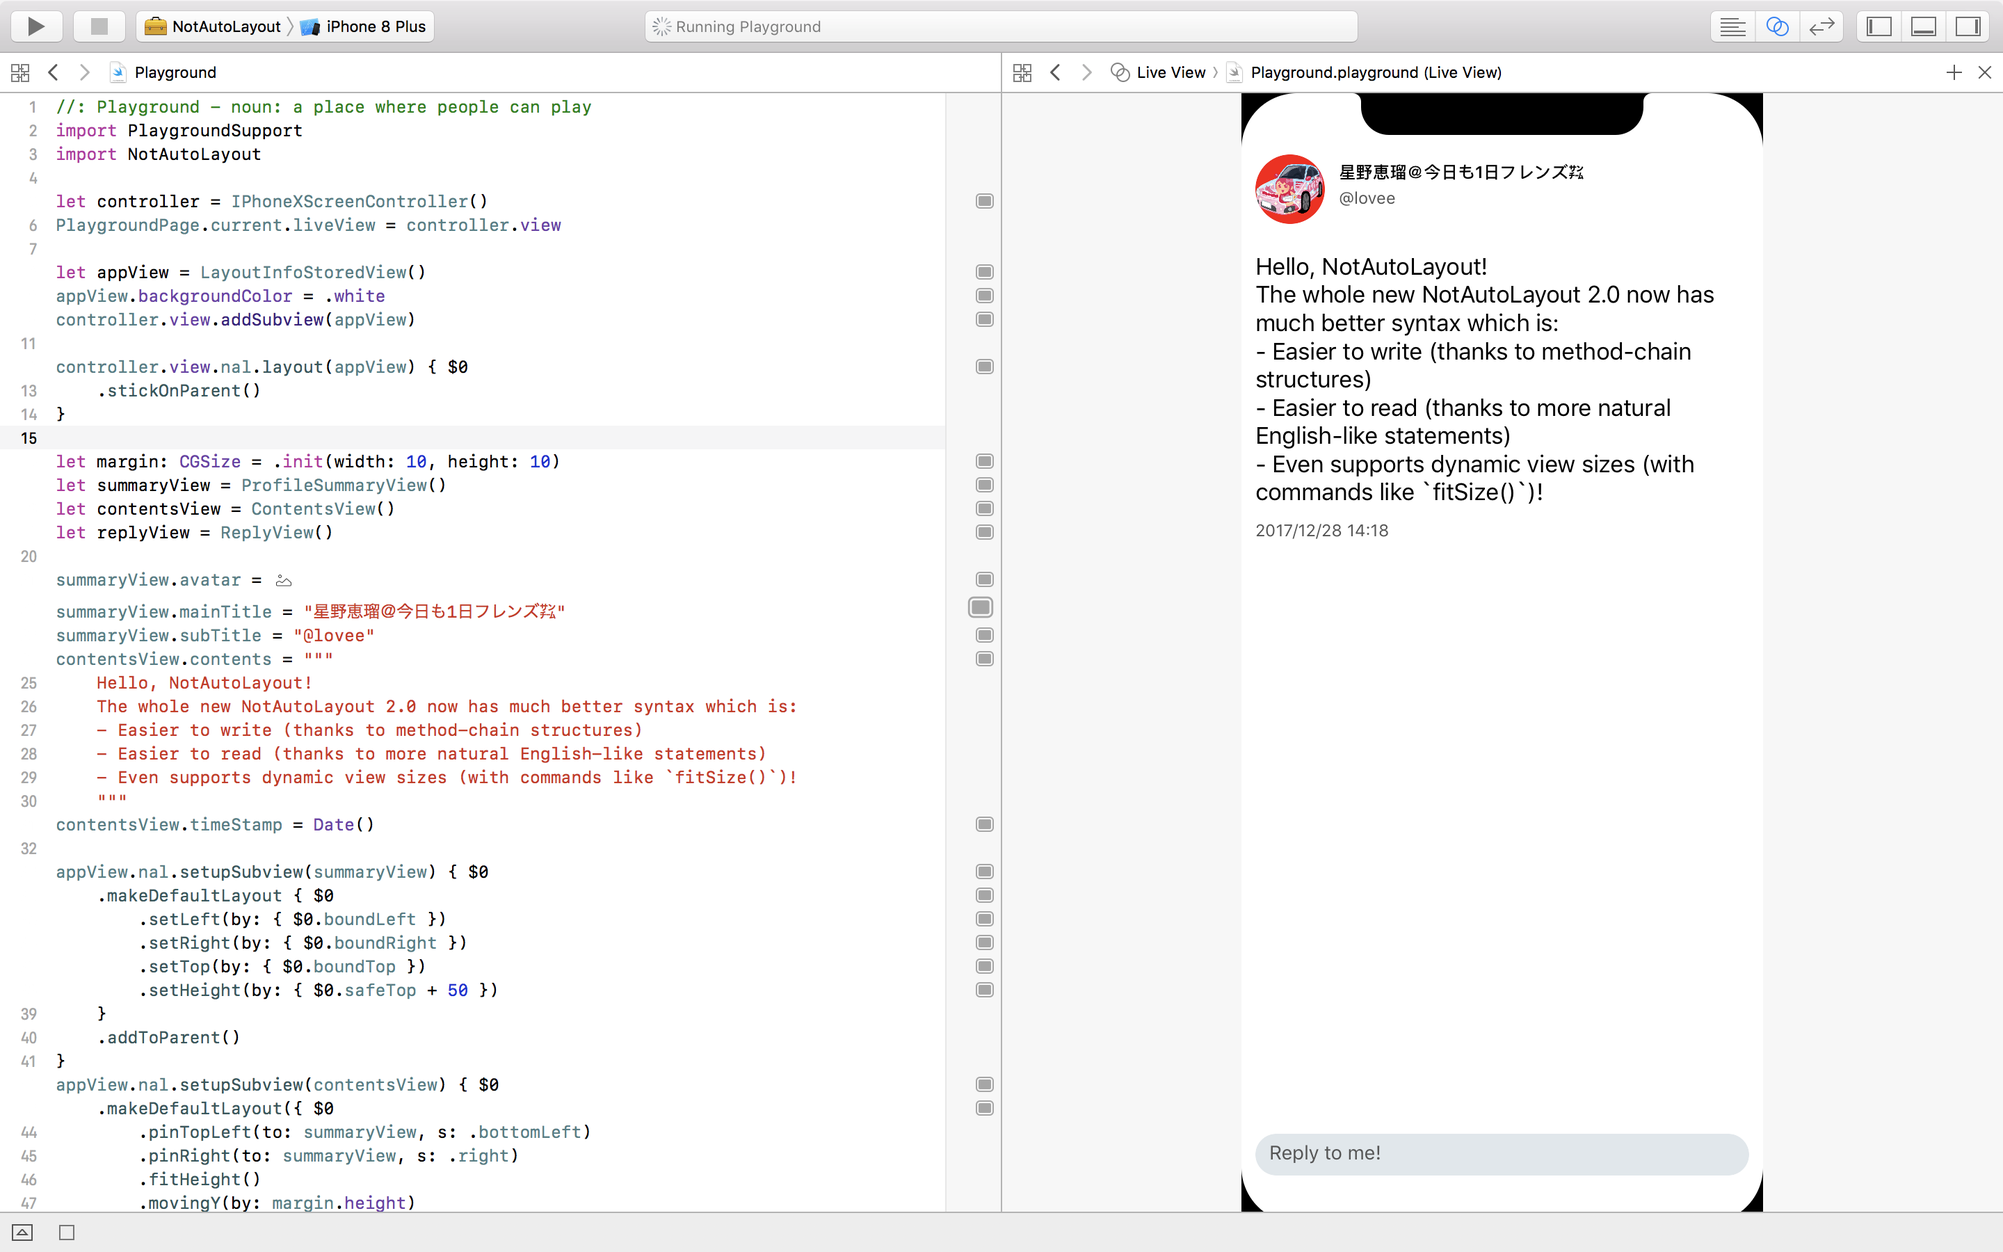
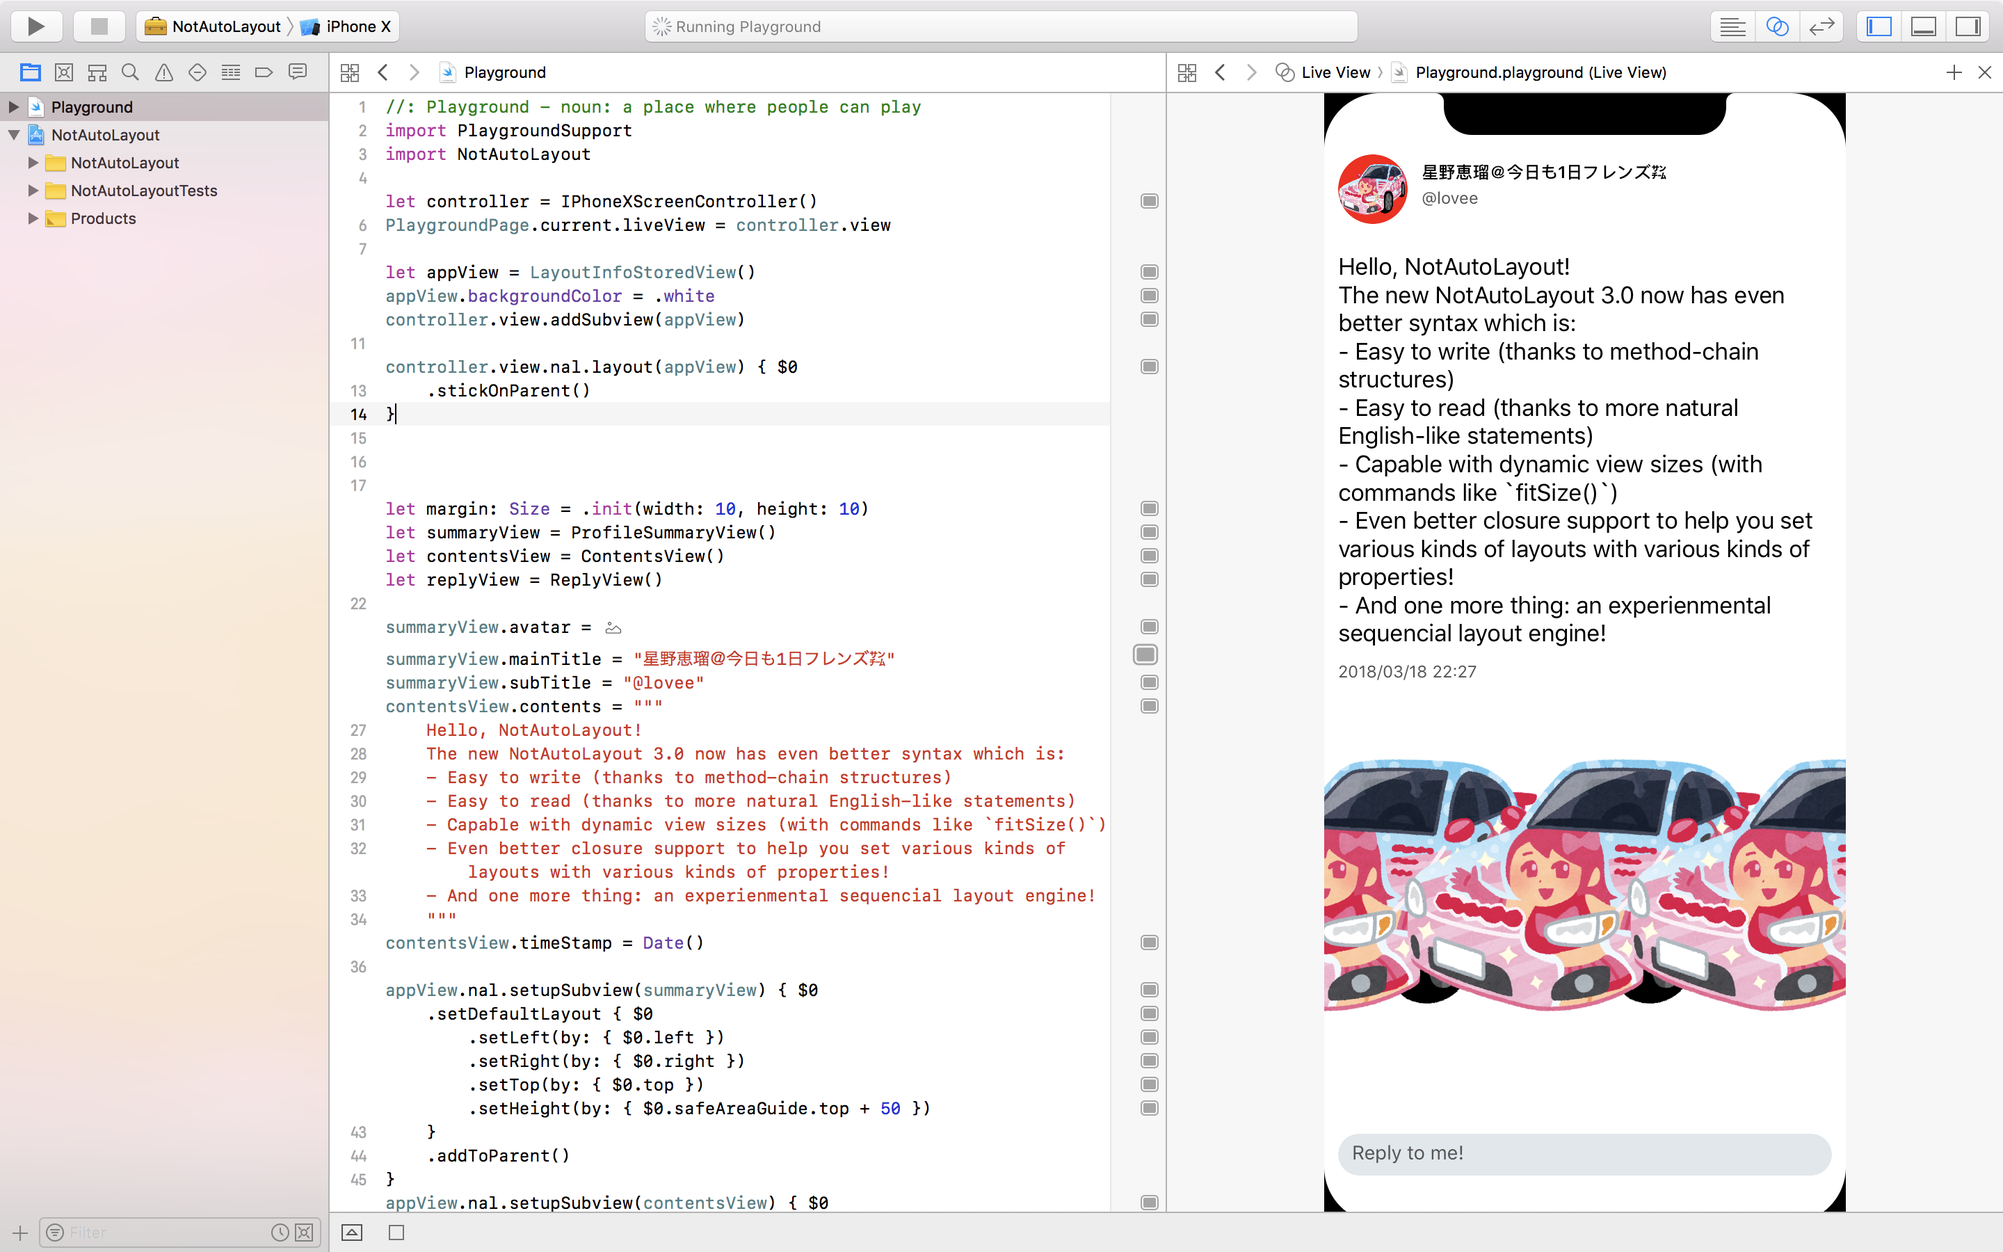
Update README.md

diff --git a/README.md b/README.md
@@ -5,13 +5,13 @@
 [![Build Status](https://www.bitrise.io/app/a650632c681bd908/status.svg?token=wwCZECU6zvtAwAfY2Jw5hQ&branch=master)](https://www.bitrise.io/app/a650632c681bd908)
 [![Carthage compatible](https://img.shields.io/badge/Carthage-compatible-4BC51D.svg?style=flat)](https://github.com/Carthage/Carthage)
 
-NotAutoLayoutView is a framework to help you layout subviews *without* Auto Layout constraints.
+**-The only[^1] layout framework that treats layout human-erros[^2] as a Build-time error-**
+
+NotAutoLayout is a framework to help you layout subviews *without* Auto Layout constraints.
 
 Please note that this framework hasn't been widely tested yet, and currently it's for iOS only.
 
 Please open an issue or send me a pull request if you have any problems, better ideas or any other things you want me to know.
-
-Currently this README.md file doesn't cover the whole project yet, it will be fixed in future releases.
 
 ## Why NotAutoLayout
 
@@ -25,8 +25,8 @@ With NotAutoLayout, you don't need to care about anything like constraints or si
 
 ## Requirements
 
-- iOS 8.0+
-- Xcode 9.0+
+- iOS 9.0+
+- Xcode 9.2+
 - Swift 4.0+
 
 ## Installation
@@ -37,7 +37,7 @@ With NotAutoLayout, you don't need to care about anything like constraints or si
 - Add the following line to your [Cartfile](https://github.com/Carthage/Carthage/blob/master/Documentation/Artifacts.md#cartfile).
 
 ```txt
-github "el-hoshino/NotAutoLayout" ~> 2.0
+github "el-hoshino/NotAutoLayout" ~> 3.0
 ```
 
 - Run `carthage update`.
@@ -56,7 +56,6 @@ github "el-hoshino/NotAutoLayout" ~> 2.0
 I wrote a barely practical sample code Playground file, which may help you get the idea. Here's the main source code, and you can find the full sample code inside the project
 
 ```swift
-import UIKit
 import PlaygroundSupport
 import NotAutoLayout
 
@@ -68,12 +67,12 @@ appView.backgroundColor = .white
 controller.view.addSubview(appView)
 
 controller.view.nal.layout(appView) { $0
-    .stickOnParent()
+	.stickOnParent()
 }
 
 
 
-let margin: CGSize = .init(width: 10, height: 10)
+let margin: Size = .init(width: 10, height: 10)
 let summaryView = ProfileSummaryView()
 let contentsView = ContentsView()
 let replyView = ReplyView()
@@ -82,43 +81,56 @@ summaryView.avatar = #imageLiteral(resourceName: "avatar.png")
 summaryView.mainTitle = "星野恵瑠＠今日も1日フレンズ㌠"
 summaryView.subTitle = "@lovee"
 contentsView.contents = """
-    Hello, NotAutoLayout!
-    The whole new NotAutoLayout 2.0 now has much better syntax which is:
-    - Easier to write (thanks to method-chain structures)
-    - Easier to read (thanks to more natural English-like statements)
-    - Even supports dynamic view sizes (with commands like `fitSize()`)!
-    """
+	Hello, NotAutoLayout!
+	The new NotAutoLayout 3.0 now has even better syntax which is:
+	- Easy to write (thanks to method-chain structures)
+	- Easy to read (thanks to more natural English-like statements)
+	- Capable with dynamic view sizes (with commands like `fitSize()`)
+	- Even better closure support to help you set various kinds of layouts with various kinds of properties!
+	- And one more thing: an experienmental sequencial layout engine!
+	"""
 contentsView.timeStamp = Date()
 
 appView.nal.setupSubview(summaryView) { $0
-    .makeDefaultLayout { $0
-        .setLeft(by: { $0.boundLeft })
-        .setRight(by: { $0.boundRight })
-        .setTop(by: { $0.boundTop })
-        .setHeight(by: { $0.safeTop + 50 })
-    }
-    .addToParent()
+	.setDefaultLayout { $0
+		.setLeft(by: { $0.left })
+		.setRight(by: { $0.right })
+		.setTop(by: { $0.top })
+		.setHeight(by: { $0.safeAreaGuide.top + 50 })
+	}
+	.addToParent()
 }
 appView.nal.setupSubview(contentsView) { $0
-    .makeDefaultLayout({ $0
-        .pinTopLeft(to: summaryView, s: .bottomLeft)
-        .pinRight(to: summaryView, s: .right)
-        .fitHeight()
-        .movingY(by: margin.height)
-    })
-    .setDefaultOrder(to: 1)
-    .addToParent()
+	.setDefaultLayout({ $0
+		.pinTopLeft(to: summaryView, with: { $0.bottomLeft })
+		.pinRight(to: summaryView, with: { $0.right })
+		.fitHeight()
+		.movingY(by: margin.height)
+	})
+	.setDefaultOrder(to: 1)
+	.addToParent()
 }
 appView.nal.setupSubview(replyView) { $0
-    .makeDefaultLayout({ $0
-        .setBottomLeft(by: { $0.boundBottomLeft })
-        .setRight(by: { $0.boundRight })
-        .setTop(by: { $0.safeBottom - 30 })
-    })
-    .addToParent()
+	.setDefaultLayout({ $0
+		.setBottomLeft(by: { $0.bottomLeft })
+		.setRight(by: { $0.right })
+		.setTop(by: { $0.safeAreaGuide.bottom - 30 })
+	})
+	.addToParent()
 }
 
-appView.setNeedsLayout()
+let imageViews = (0 ..< 3).map { (_) -> UIImageView in
+	let image = #imageLiteral(resourceName: "avatar.png")
+	let view = UIImageView(image: image)
+	appView.addSubview(view)
+	return view
+}
+
+appView.nal.layout(imageViews) { $0
+	.setMiddle(by: { $0.vertical(at: 0.7) })
+	.fitSize()
+	.setHorizontalInsetsEqualingToMargin()
+}
 ```
 
 ![screenshot](README_Resource/PlaygroundSample.png)
@@ -140,92 +152,125 @@ To layout a subview in `layoutSubviews()` method, you can use code like this:
 
 ```swift
 class MyView: UIView {
-    let viewA = UIView()
-
-    override func layoutSubviews() {
-        super.layoutSubviews()
-
-        self.nal.layout(self.viewA) { $0
-            .pinTopCenter(to: $0.parentView, s: .topCenter)
-            .setWidth(by: { $0.boundWidth })
-            .fitHeight()
-        }
-
-    }
-
+	
+	let viewA = UIView()
+	let viewB = UIView()
+	
+	override func layoutSubviews() {
+		super.layoutSubviews()
+		
+		self.nal.layout(self.viewA) { $0
+			.setTopCenter(by: { $0.topCenter })
+			.setWidth(by: { $0.width })
+			.fitHeight()
+		}
+		
+		self.nal.layout(self.viewB) { $0
+			.pinTopCenter(to: self.viewA, with: { $0.bottomCenter })
+			.setWidth(by: { $0.width })
+			.fitHeight()
+		}
+		
+	}
+	
 }
 ```
 
-which will layout `viewA` to parent's top center, having the same width as its parent, and fit its height automatically.
+which will first layout `viewA`'s top center to parent's top center (which is `MyView`'s top center), having the same width as its parent (which is `MyView`), and fit its height automatically, then layout `viewB`'s top center to `viewA`'s top bottom, having the same width as its parent (which is `MyView`), and fit its height automatically.
 
-To setup the layout for a subview, which the parent must conform `LayoutInfoStorable` protocol, you can use code like this:
+To setup the layout for a subview, which the parent must conform `LayoutInfoStorable` protocol, you can also use code like this:
 
 ```swift
 class ViewController: UIViewController {
-
-    private(set) lazy var mainView = LayoutInfoStoredView()
-    private(set) lazy var viewA = UIView()
-
-    override func loadView() {
-        self.mainView.frame = UIScreen.main.bounds
-        self.view = self.mainView
-    }
-
-    override func viewDidLoad() {
-        super.viewDidLoad()
-
-        self.mainView.nal.makeLayout(for: self.viewA) { $0
-            .pinTopCenter(to: $0.parentView, s: .topCenter)
-            .setWidth(by: { $0.boundWidth })
-            .fitHeight
-        }
-
-    }
-
+	
+	private(set) lazy var mainView = LayoutInfoStoredView()
+	private(set) lazy var viewA = UIView()
+	private(set) lazy var viewB = UIView()
+	
+	override func loadView() {
+		self.mainView.frame = UIScreen.main.bounds
+		self.view = self.mainView
+	}
+	
+	override func viewDidLoad() {
+		super.viewDidLoad()
+		
+		self.mainView.nal.setLayout(for: self.viewA) { $0
+			.setTopCenter(by: { $0.topCenter })
+			.setWidth(by: { $0.width })
+			.fitHeight()
+		}
+		
+		self.mainView.nal.setupSubview(self.viewB) { $0
+			.setDefaultLayout({ $0
+				.pinTopCenter(to: self.viewA, with: { $0.bottomCenter })
+				.setWidth(by: { $0.width })
+				.fitHeight()
+			})
+			.setDefaultOrder(to: 1)
+		}
+		
+	}
+	
 }
 ```
 
-which will do the same thing as the code before.
+which will do the same thing as the code before, and the good thing of this way is that you don't have to subclass a `UIView` for to make `mainView`. But since your `viewB`'s layout is based on `viewA`, you'll need to set `viewB`'s layout order to make sure it'll layout `viewB` after it layout `viewA`.
 
 ### How to make a layout
 
-You may call `nal.layout(_ subview: UIView, by making: (_ layoutMaker: InitialLayoutMaker) -> Layout.Individual)` to set a layout for subview from the parent view. The very basic idea is to make layouts through `LayoutMaker`s. With `LayoutMaker`, you can setup a layout by setting each part of a frame step by step to generate a specific layout, and then the parent view will use the generated layout to set the frame of the subview.
+You may call `nal.layout(_ subview: UIView, by making: (_ layoutMaker: LayoutMaker<IndividualProperty.Initial>) -> LayoutMaker<IndividualLayout>)` to set a layout for subview from the parent view. The very basic idea is to make layouts through `LayoutMaker`s. With `LayoutMaker`, you can setup a layout by setting each part of a frame step by step to generate a specific layout, and then the parent view will use the generated layout to set the frame of the subview.
 
-To setup a layout by `LayoutMaker`, you may call methods like `$0.setTopLeft(to: .zero).fitSize()` in the provided `making` closure. Since it's a `(InitialLayoutMaker) -> Layout.Individual` type closure, it will guarantee that finally you'll get a specific layout that avoids things like ambiguous layout in Auto Layout. And since `InitialLayoutMaker` has lots of chaind methods those lead to a `Layout.Individual`, you can easily write a method chain without missing any part of a frame.
+To setup a layout by `LayoutMaker`, you may call methods like `$0.setTopLeft(to: .zero).fitSize()` in the provided `making` closure. Since it's a `(LayoutMaker<IndividualProperty.Initial>) -> LayoutMaker<IndividualLayout>` type closure, it will guarantee that finally you'll get a specific layout that avoids things like ambiguous layout in Auto Layout. And since `LayoutMaker<IndividualProperty.Initial>` has lots of chaind methods those lead to a `LayoutMaker<IndividualLayout>`, you can easily write a method chain without missing any part of a frame.
 
-To make a certain frame, you'll need 4 elements: 2 unique horizontal positions and 2 unique vertical positions. Horizontal positions may be any of the things like `left`, `center`, `right` or any specific position like `0.3`, and `width` which also can represent a horizontal position. Vertical positions may be any of the things like `top`, `middle`, `bottom` or any specific position like `0.3`, and of course `height`. To set these elements through `LayoutMaker`, there is a approximate order that is:
+Theoretically, to make a certain frame you'll need 4 elements: 2 unique horizontal positions and 2 unique vertical positions. Horizontal positions may be any of the things like `left`, `center`, `right` or any specific position like `0.3`, and `width` which also can represent a horizontal position. Vertical positions may be any of the things like `top`, `middle`, `bottom` or any specific position like `0.3`, and of course `height`. Currently, because there're some `LayoutProperty`s not declared yet, in order to set these elements through `LayoutMaker`, there is an approximate order that is:
 
-1. Set point-specific positions (like `.topLeft`) before line-specific positions (like `.top` or `.left`).
-2. Set line-specific positions before set size elements (`.width`, `.height` and `.size`).
-3. In line-specific positions, set horizontal positions (like `.left`) before vertical positions (like `.top`).
-4. In size elements, set `.width` before `.height` if you set them separately.
+1. Set point-specific positions (like `.setTopLeft`) before line-specific positions (like `.setTop` or `.setLeft`).
+2. Set line-specific positions before set size elements (`.setWidth`, `.setHeight` and `.setSize`).
+3. In line-specific positions, set horizontal positions (like `.setLeft`) before vertical positions (like `.setTop`).
 
 Since you only need 2 unique horizontal positions and 2 unique vertical positions to make a frame, you don't need to write all those 4 categories of statements. For example, you may write `$0.setTopLeft(to: .zero).fitSize()` to make a specific frame, which only have 2 statements.
 
-And in `LayoutMaker`s, you also have some methods that can get the parent view's size and safe area related properties (like `.setLeft(by: { $0.leftSafeAreaInset })`), which can help you in making responsive layouts.
+And in `LayoutMaker`s, you also have some methods that can get the parent view's size and safe area related properties (like `.setLeft(by: { $0.safeAreaGuide.topCenter })`), which can help you in making responsive layouts.
 
 ### How it actually works
 
 NotAutoLayout provides serveral APIs for user to make a specific frame for a subview, like `pinTopCenter` and many others introduced before. As a developer you only need to care how the designer designed the layout of each subview, and then you just need to translate it into code directly. NotAutoLayout's layout engine will take care of how to make that exact `CGRect`.
 
-To provide the API to make a frame, NotAutoLayout contains a lot of `~LayoutMaker`s. With these makers, you can easily understand which elements are required to make a specific frame while writing the code, and easily understand what layout the developer wants to achieve through the code. The initializer of these makers are hidden from you developers, so in order to access it you'll need to use code like `.nal.layout(aSubView)`, then you'll get a maker in the following closure, like the sample code in `### Tell me more`. The `$0` in that sample code is the layout maker. And through those chained mathods like `pinTopCenter` you'll finally get a `LayoutEditor` in the closure. When the closure's calculation is finished, NotAutoLayout's layout engine will extract the layout from the layout editor.
+To provide the API to make a frame, NotAutoLayout contains a lot of `LayoutProperty`s. With these makers, you can easily understand which elements are required to make a specific frame while writing the code, and easily understand what layout the developer wants to achieve through the code. The initializer of these makers are hidden from you developers, so in order to access it you'll need to use code like `.nal.layout(aSubView)`, then you'll get a maker in the following closure, like the sample code in `### Tell me more`. The `$0` in that sample code is the layout maker. And through those chained mathods like `pinTopCenter` you'll finally get a `LayoutMaker<IndividualLayout>` in the closure. When the closure's calculation is finished, NotAutoLayout's layout engine will extract the layout from the `IndividualLayout`.
+
+## Comparison with other layout frameworks
+
+ Items | NotAutoLayout | [PinLayout](https://github.com/mirego/PinLayout) | [LayoutKit](https://github.com/linkedin/LayoutKit) | [SnapKit](https://github.com/SnapKit/SnapKit) | [PureLayout](https://github.com/PureLayout/PureLayout) | [Cartography](https://github.com/robb/Cartography)
+---------------- | ---------------- | ---------------- | ---------------- | ---------------- | ---------------- | ----------------
+ Written in      | Swift            | Swift (and a little ObjC) | Swift (and a little ObjC) | Swift | ObjC (and a little Swift) | Swift
+ Based on        | `layoutSubvews`  | `layoutSubviews` | `layoutSubvews`  | Auto Layout      | Auto Layout      | Auto Layout
+ Platforms       | iOS              | iOS / tvOS       | iOS / macOS / tvOS | iOS / macOS / tvOS | iOS / macOS / tvOS | iOS / macOS
+ Dependency Manager | Carthage      | CocoaPods / Carthage | CocoaPods / Carthage | CocoaPods / Carthage / CocoaPods / Carthage | CocoaPods / Carthage
+ Performance     | ◯                | ◯                | ◯                | ×                | ×                | ×
+ Easy to write   | ◯                | ◯                | ×                | ◯                | ◯                | △[^3]
+ Easy to read    | ◯                | △[^4]            | △[^5]            | ◯                | ◯                | ◯
+ Ex-Short syntax | ×                | ◯                | ×                | ×                | ×                | ×
+ Chained methods | ◯                | ◯                | ×                | △[6]             | ×                | ×
+ Targeted extensions[^7] | ◯        | ◯                | ×[^8]            | ◯                | ×                | ×
+ Behaviour on human-errors[^2] | Build-time Error | Nothing | Build-time Error[^9] | Run-time Warning | Run-time Warning | Run-Time Warning
 
 ## Known issues
 
-- [x] README.md file is not finished yet.
 - [ ] Inline documents are not finished yet.
-- [ ] Some `LayoutMaker` methods are not declared yet.
-- [ ] Sequencial layout is not implemented yet.
+- [ ] Some `LayoutProperty`s are not declared yet, 
 - [ ] Matrical layout is not implemented yet.
-
-## Golas for oncoming version 3.0
-
-NotAutoLayout v3.0 will be released along with Swift 4.1 (that means probably on 1st or 2nd quarter in 2018), which may contain some breaking changes to the current API. One of the biggest changes is `pinXxx` API. Currently it's made like `pinLeft(to: someView, s: .right, offsetBy: 10, safeAreaOnly: true)`, which is very long and not very user friendly. In v3.0, it'll be changed to something like `pinLeft(to: someView, at: { $0.safeRight + 10 })`, which much shorter, as well as much easier to read.
-
-Also, currently in v2.x, sequencial and matrical layouts are not implemented yet. Hopefully they'll be implemented in v3.0, or at least v3.1.
-
-For details about version 3.0.0, please take a look at the [3.0.0 Milestone](https://github.com/el-hoshino/NotAutoLayout/milestone/5).
 
 ## License
 
 NotAutoLayout is released under the Apache license. See [LICENSE](LICENSE) for details.
+
+[^1]: Maybe. At least I personally haven't found a second one.
+[^2]: Things like Ambiguous Layout on Auto Layout, or just forgot to set an edge for a subview while overriding `layoutSubviews`.
+[^3]: It's not difficult to memorize the syntax, but you have to write global functions rather than methods, which makes it a little bit hard for auto-completion comparing with methods.
+[^4]: Sometimes the method name is too short to understand what it really does.
+[^5]: It's not very difficult to understand, but still takes a while to read the syntax.
+[^6]: SnapKit does have chained methods to help you making Auto Layout constraints, but you may still need to write more than one statement to make all required constraints.
+[^7]: A namespaced extension making method [made like this](http://tech.vasily.jp/entry/swift_modern_extensions). One of the famous examples is `.rx` access control in [RxSwift](https://github.com/ReactiveX/RxSwift).
+[^8]: LayoutKit doesn't have a namespaced extension mechanism, but instead it uses local types to avoid possible name-confilictions.
+[^9]: LayoutKit theoretically doesn't make any ambiguous layouts within its syntax, but it still produces some implicitly sizing process.
